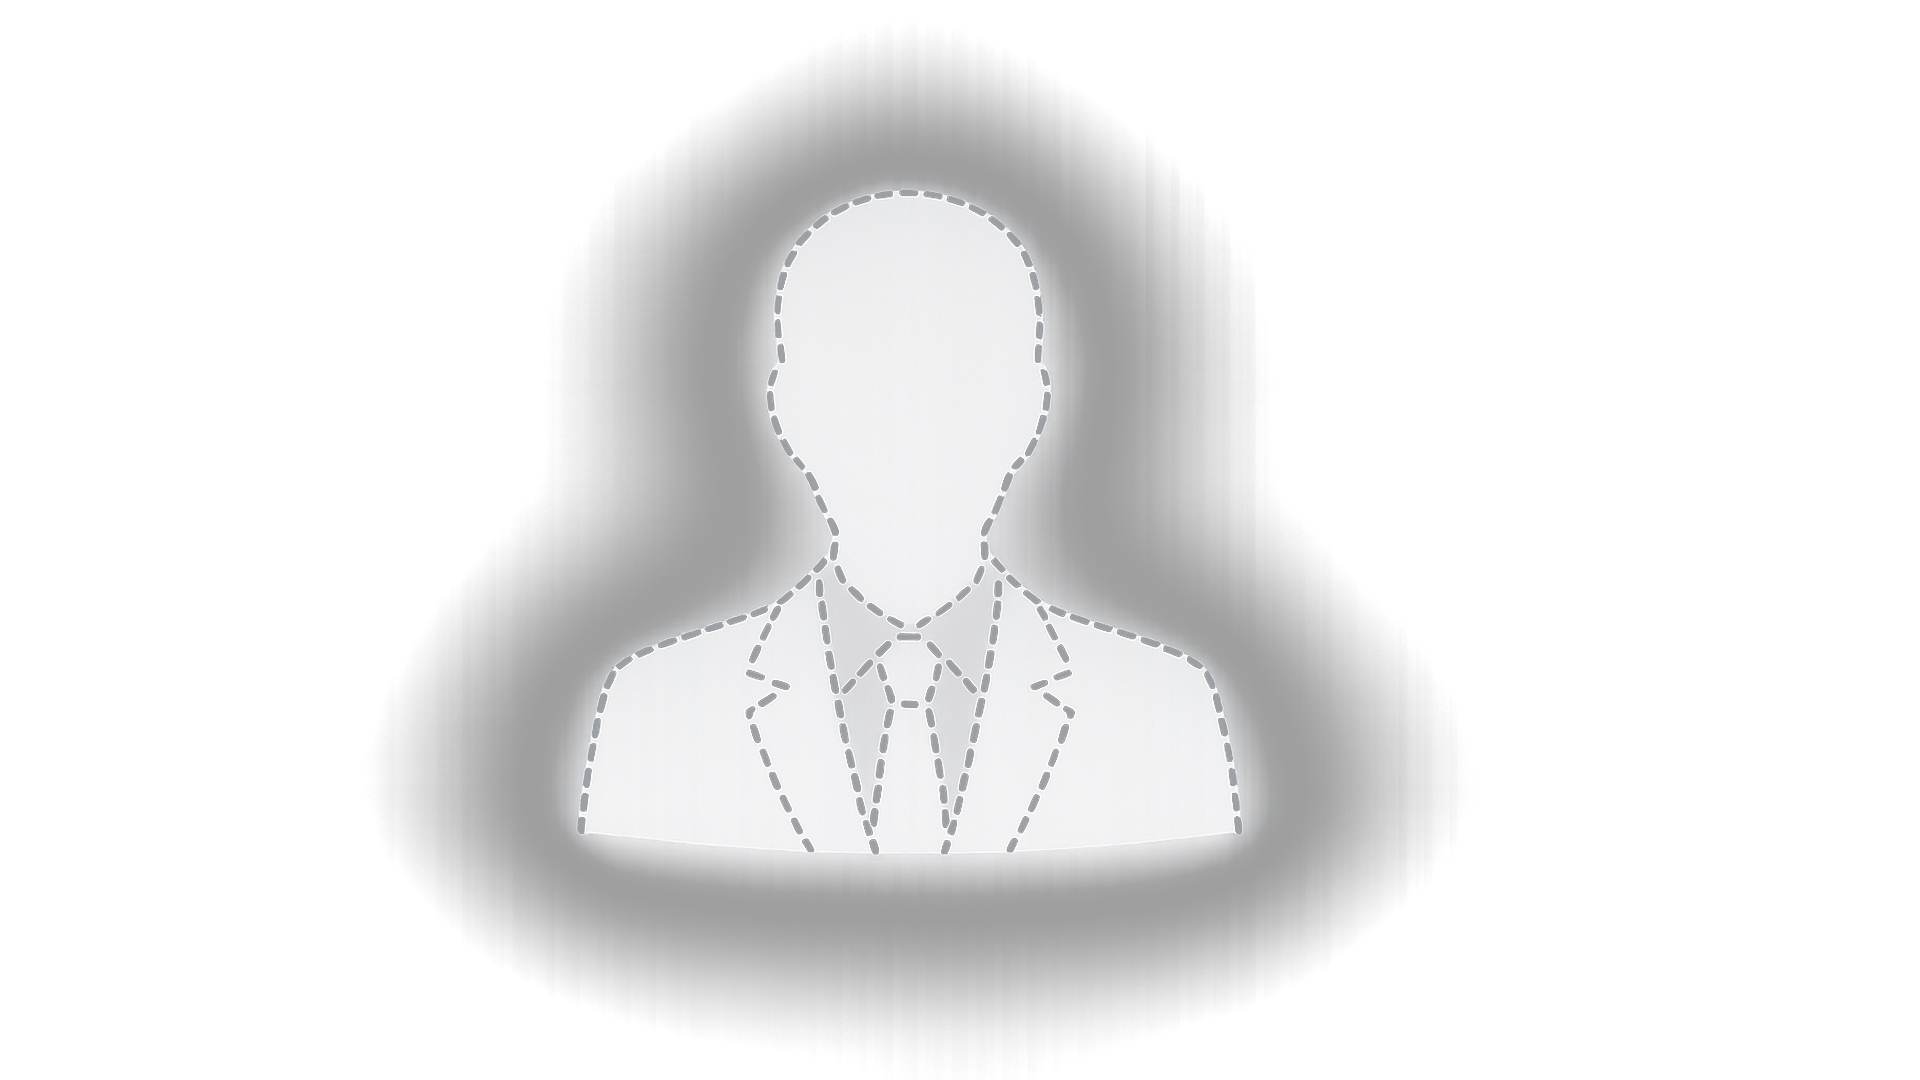
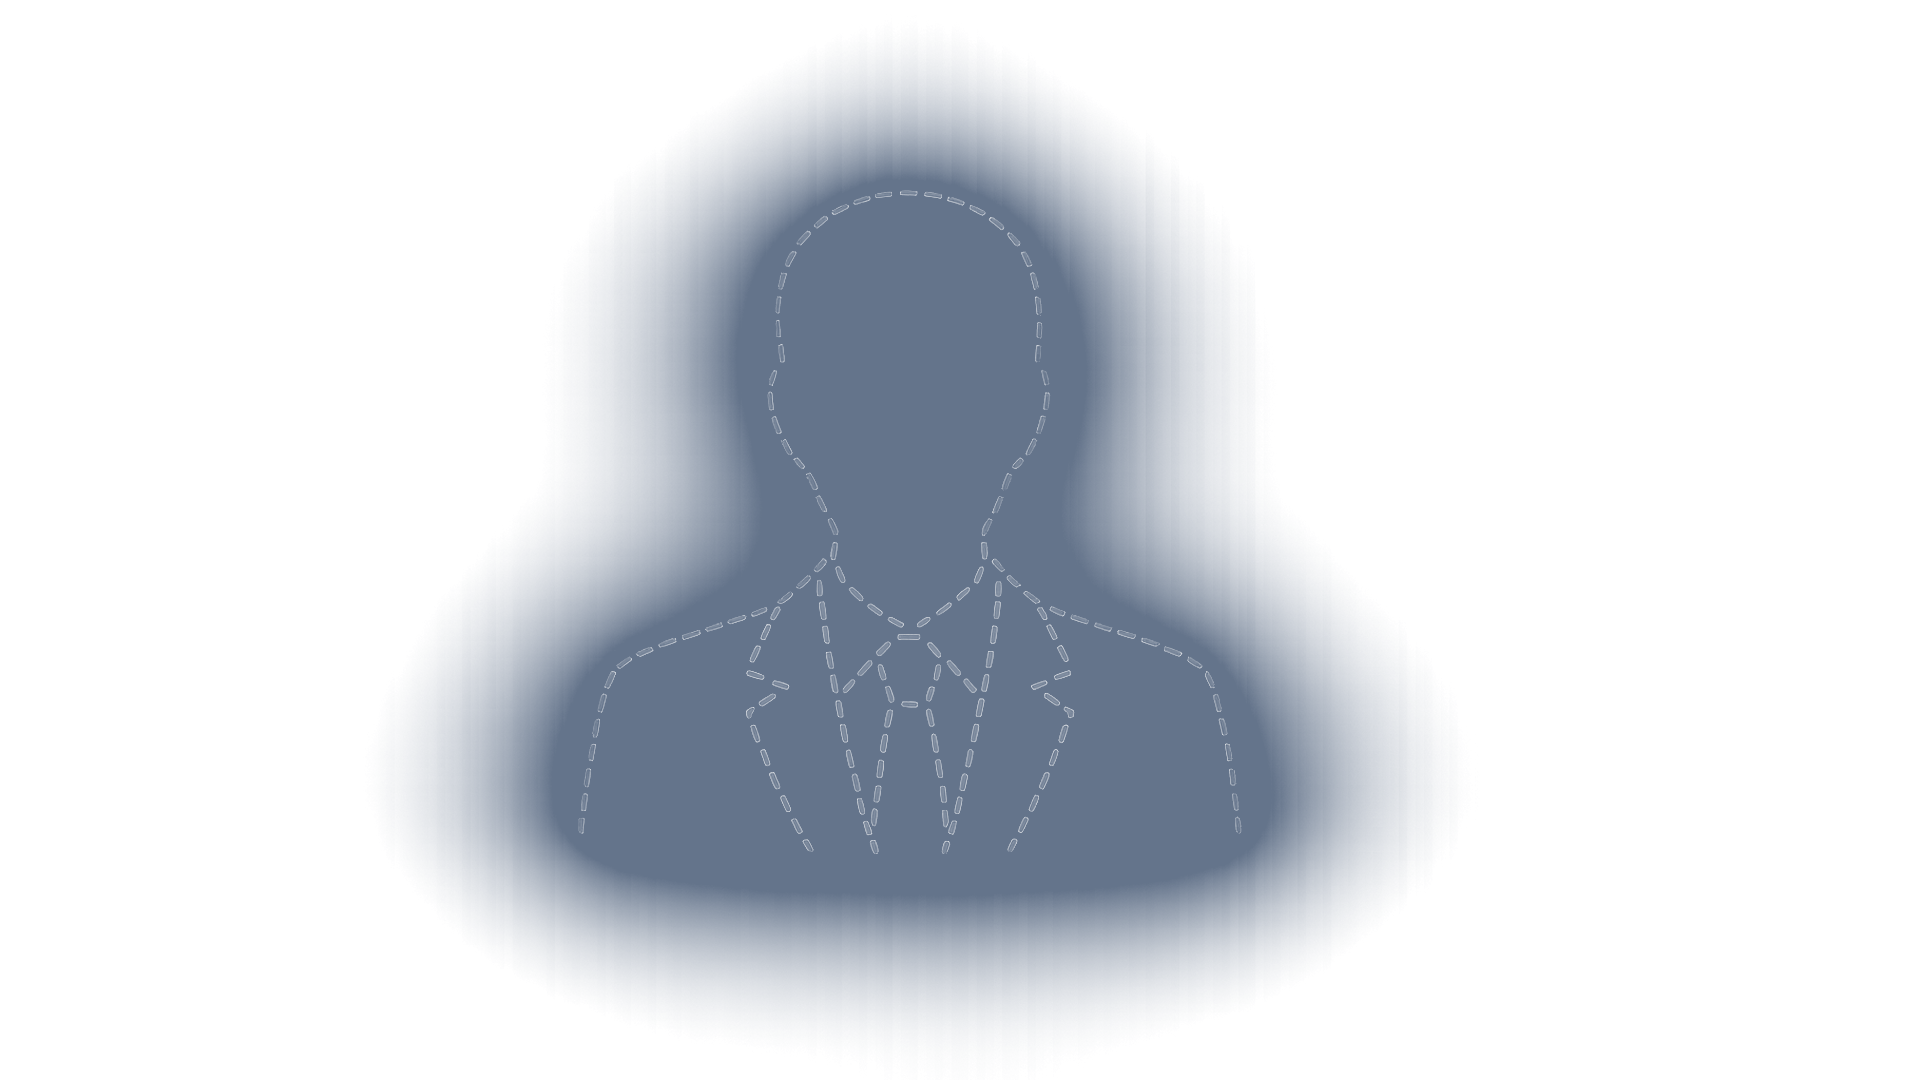
style: 베이직 화상면접 배경을 흰색 + 슬레이트 실루엣으로
- 영상 영역 배경을 인디고 그라데이션 → 흰색(테두리 추가)
- placeholder 실루엣 색을 슬레이트로 변경(흰 배경에서 보이도록)

Changed region(s): [[0.2188, 0.0917, 0.7188, 0.9167]]

diff --git a/frontend/src/features/interview/components/LocalAvatarTab.tsx b/frontend/src/features/interview/components/LocalAvatarTab.tsx
@@ -403,7 +403,7 @@ export function LocalAvatarTab({ session }: { session: InterviewSession | null }
           {(status === "connecting" || status === "live" || status === "analyzing") && (
             <div
               ref={videoBoxRef}
-              className="relative overflow-hidden rounded-xl bg-gradient-to-b from-[#5e6ad2] to-[#37318a]"
+              className="relative overflow-hidden rounded-xl border border-slate-200 bg-white"
             >
               <img
                 src={interviewerPlaceholder}